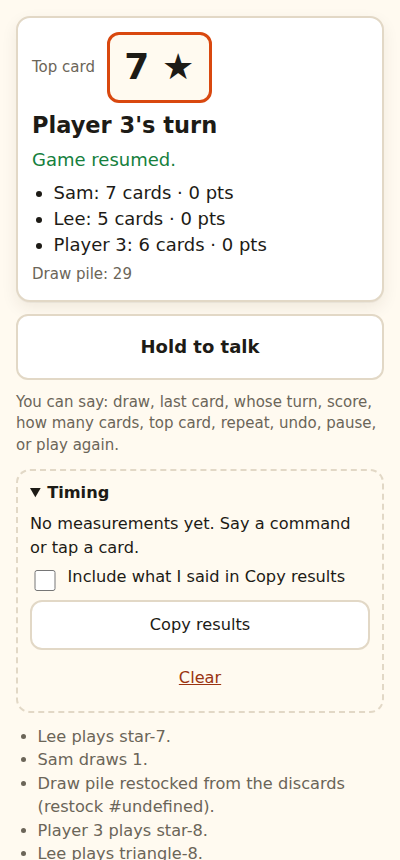
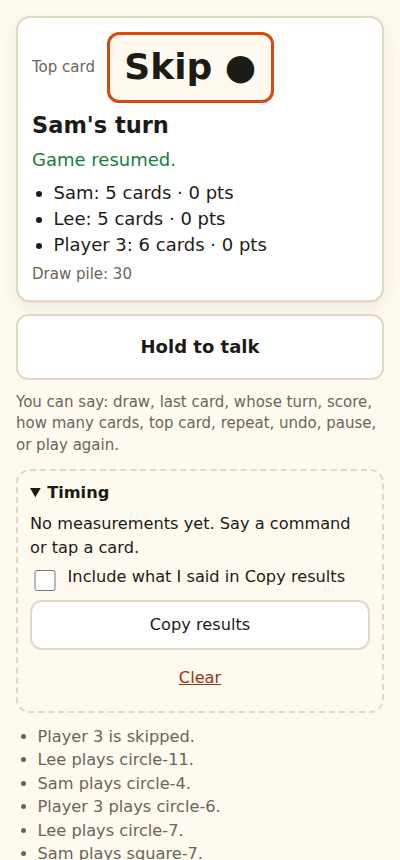
Catch up when the table restocks the draw pile on its own; fix the deck size mid-game; clearer add-card message
Claude-Session: https://claude.ai/code/session_014dNE1wrudJ3Rjp2wqt9CUz

diff --git a/src/games/matching.ts b/src/games/matching.ts
@@ -2,7 +2,7 @@ import type { Action, ActionResult, Cartridge, Card, GameState, GameStatus, Play
 import { cardById, mulberry32, shuffle } from '../engine/deck';
 import { ALL_CARD_IDS } from '../engine/deckConfig';
 import { advance, createTurn, currentPlayer, reverse, skip } from '../engine/turns';
-import { deckCards, deckHas, defaultTable, fullyKnown, handCount, inDiscard, knownOwner, knownPoints, outOfDeckMessage, physicalDraw, scanInto, syncCounts, unknownOf } from '../engine/table';
+import { alreadyPlayedMessage, catchUpRestock, deckCards, deckHas, defaultTable, fullyKnown, handCount, inDiscard, knownOwner, knownPoints, outOfDeckMessage, physicalDraw, restock, scanInto, syncCounts, unknownOf } from '../engine/table';
 
 /** Original name (Uno is a Mattel trademark); placeholder until the brief's naming step. */
 export const MATCHING_NAME = 'Match Up';
@@ -172,6 +172,8 @@ const ALLOWED: Record<Action['type'], GameStatus[]> = {
   finishScoring: ['scoring'],
   adjust: ['setup', 'playing'],
   addCard: ['setup', 'scanning', 'playing'],
+  restock: ['scanning', 'playing'],
+  deckSize: ['setup', 'scanning', 'playing'],
 };
 
 function reduce(prev: GameState, action: Action, rng: Rng): ActionResult {
@@ -188,6 +190,8 @@ function reduce(prev: GameState, action: Action, rng: Rng): ActionResult {
     case 'confirm': return doConfirm(s, action.ok);
     case 'score': return doScore(prev, s, action.cardId);
     case 'finishScoring': return doFinishScoring(s);
+    case 'deckSize': return doDeckSize(prev, s, action.count);
+    case 'restock': return doRestock(prev, s);
     case 'addCard': return doAddCard(prev, s, action.cardId);
     case 'adjust': return doAdjust(prev, s, action.player, action.delta);
     case 'callLast': return doCallLast(prev, s, action.player);
@@ -198,6 +202,33 @@ function reduce(prev: GameState, action: Action, rng: Rng): ActionResult {
 
 // ---- physical table: setup, scanning, confirming, scoring ------------------
 
+/**
+ * Real cards: the deck in the app doesn't match the cards on the table (extra cards were added, or the count was
+ * wrong). Cards the app has seen (in hands or on the pile) always stay; the rest are trimmed or topped up to `count`.
+ */
+function doDeckSize(prev: GameState, s: GameState, count: number): ActionResult {
+  if (!isPhysical(s)) return fail(prev, 'The app deals from the cards in play, so this only applies to real cards.');
+  if (!Number.isInteger(count) || count < 1 || count > ALL_CARD_IDS.length) return fail(prev, `Enter a whole number from 1 to ${ALL_CARD_IDS.length}.`);
+  const seen = new Set<string>(s.public.discard.map((c) => c.id));
+  for (const p of s.players) for (const c of s.private[p.id]?.hand ?? []) seen.add(c.id);
+  const unseenInHands = s.players.reduce((n, p) => n + unknownOf(s.private[p.id]), 0);
+  const needed = seen.size + unseenInHands;
+  if (count < needed) return fail(prev, `At least ${needed} cards are already in hands or on the pile, so the deck can't be smaller than that.`);
+  const rest = ALL_CARD_IDS.filter((id) => !seen.has(id));
+  const room = count - seen.size;
+  const keep = new Set([...new Set([...s.table.deck.filter((id) => !seen.has(id)), ...rest])].slice(0, room)); // keep what was in play first, then top up
+  s.table.deck = ALL_CARD_IDS.filter((id) => seen.has(id) || keep.has(id));
+  syncCounts(s);
+  logLine(s, `Cards in play corrected to ${s.table.deck.length}.`);
+  return { ok: true, state: s, message: `Now ${s.table.deck.length} cards in play. Draw pile: ${s.public.drawPileCount}.` };
+}
+
+function doRestock(prev: GameState, s: GameState): ActionResult {
+  if (!isPhysical(s)) return fail(prev, 'The app restocks the draw pile by itself.');
+  if (!restock(s)) return fail(prev, 'There is nothing in the discard pile to shuffle back in.');
+  return { ok: true, state: s, message: `Draw pile restocked: ${s.public.drawPileCount} cards.` };
+}
+
 function doAddCard(prev: GameState, s: GameState, cardId: string): ActionResult {
   const card = cardById(cardId);
   if (!card) return fail(prev, `${cardId} isn't a card in this game.`);
@@ -205,7 +236,7 @@ function doAddCard(prev: GameState, s: GameState, cardId: string): ActionResult 
   s.table.deck = ALL_CARD_IDS.filter((id) => id === cardId || s.table.deck.includes(id));
   syncCounts(s);
   logLine(s, `${card.id} added to the deck (${s.table.deck.length} cards in play).`);
-  return { ok: true, state: s, message: `${card.id} added to the deck.` };
+  return { ok: true, state: s, message: `${card.id} added: now ${s.table.deck.length} cards in play. If that is not how many you really have, fix it under "Fix a card count or the deck size".` };
 }
 
 function doFlip(prev: GameState, s: GameState, cardId: string): ActionResult {
@@ -412,7 +443,8 @@ function doPlay(prev: GameState, s: GameState, player: PlayerId, cardId: string,
 
   const known = hp.hand.find((c) => c.id === cardId);
   if (!known) {
-    if (inDiscard(s, cardId)) return fail(prev, `${cardId} is already on the pile.`);
+    catchUpRestock(s, cardId); // played before, shuffled back in by the table, now in play again
+    if (inDiscard(s, cardId)) return fail(prev, alreadyPlayedMessage(s, cardId));
     const owner = knownOwner(s, cardId);
     if (owner) return fail(prev, `That's ${name(s, owner)}'s card, not ${who}'s.`);
     // Not identified: fine if this player still holds cards the app hasn't identified (it learns this one now).

diff --git a/tests/table.test.ts b/tests/table.test.ts
@@ -614,3 +614,78 @@ describe('physical table: winning +2 and play-on mode', () => {
     expect(handCount(s, 'p0')).toBe(1);
   });
 });
+
+describe('the table restocks before telling the app', () => {
+  const rigged = (knowledge: 'counts' | 'scanned') => {
+    const deck = deckForCount(10);
+    let s = startGame(matchingGame, mk(2), rng(), table(deck, knowledge, 'physical', 4));
+    s = act(s, { type: 'flip', cardId: deck[2]! }).state;
+    s.public.discard = [card('circle-1'), card('circle-2'), card('triangle-1'), card(deck[2]!)]; // three were played earlier
+    s.private.p0!.unknown = 3; s.private.p1!.unknown = 4; // and one more card each left the hands
+    s.public.drawPileCount = 0; syncCounts(s);
+    return s;
+  };
+  it('with the pile empty, playing a card that was already on the pile means the discards were shuffled back in: catch up, do not refuse', () => {
+    const s = rigged('counts');
+    expect(s.public.drawPileCount).toBe(0);
+    const top = s.public.discard.at(-1)!;
+    const r = act(s, { type: 'play', player: currentPlayer(s.public.turn), cardId: 'circle-1' });
+    expect(r.state.public.reshuffles).toBe(1);
+    expect(r.state.public.discard.length).toBe(r.ok ? 2 : 1);
+    expect(r.state.public.discard[0]!.id).toBe(r.ok ? top.id : top.id);
+  });
+  it('with cards still in the pile it is refused, with a hint and a way to restock by hand', () => {
+    const s = rigged('counts');
+    s.private.p0!.unknown = 1; syncCounts(s); // the app now thinks the pile has cards
+    expect(s.public.drawPileCount).toBeGreaterThan(0);
+    const r = act(s, { type: 'play', player: currentPlayer(s.public.turn), cardId: 'circle-1' });
+    expect(r.ok).toBe(false);
+    expect(r.message).toMatch(/shuffled the discards/);
+    expect(r.state.public.reshuffles ?? 0).toBe(0);
+  });
+  it('scanning a drawn card that is in the old discards catches up too', () => {
+    let s = rigged('scanned');
+    s.public.status = 'scanning'; s.public.scanning = { player: 'p0', remaining: 1 };
+    expect(s.public.drawPileCount).toBe(0);
+    s = act(s, { type: 'scan', player: 'p0', cardId: 'circle-1' }).state;
+    expect(s.public.reshuffles).toBe(1);
+    expect(s.private.p0!.hand.map((c) => c.id)).toContain('circle-1');
+    expect(s.public.discard).toHaveLength(1);
+    invariant(s);
+  });
+  it('the top card itself is still refused, and a manual restock works once there is something to shuffle', () => {
+    const s = rigged('counts');
+    const refused = act(s, { type: 'play', player: currentPlayer(s.public.turn), cardId: s.public.discard.at(-1)!.id });
+    expect(refused.ok).toBe(false);
+    expect(refused.message).toMatch(/already on the pile/);
+    const r = act(s, { type: 'restock' });
+    expect(r.ok).toBe(true);
+    expect(r.state.public.discard).toHaveLength(1);
+    expect(r.state.public.reshuffles).toBe(1);
+    expect(act(r.state, { type: 'restock' }).ok).toBe(false); // nothing left to shuffle
+    invariant(r.state);
+  });
+});
+
+describe('correcting the deck size mid-game (real cards)', () => {
+  it('trims extra cards that were added by mistake, never the ones the app has seen', () => {
+    const deck = deckForCount(10);
+    let s = act(startGame(matchingGame, mk(2), rng(), table(deck, 'counts', 'physical', 4)), { type: 'flip', cardId: deck[2]! }).state;
+    for (const id of ['star-13', 'star-12', 'star-11', 'square-13']) s = act(s, { type: 'addCard', cardId: id }).state;
+    expect(s.table.deck).toHaveLength(14);
+    const r = act(s, { type: 'deckSize', count: 10 });
+    expect(r.ok).toBe(true);
+    expect(r.state.table.deck).toHaveLength(10);
+    expect(r.state.table.deck).toContain(deck[2]!); // the flipped card stays
+    expect(pile(r.state)).toBe(1);
+    invariant(r.state);
+  });
+  it('refuses a deck smaller than what is already in hands and on the pile, or nonsense', () => {
+    const deck = deckForCount(10);
+    const s = act(startGame(matchingGame, mk(2), rng(), table(deck, 'counts', 'physical', 4)), { type: 'flip', cardId: deck[2]! }).state;
+    expect(act(s, { type: 'deckSize', count: 5 }).ok).toBe(false);
+    expect(act(s, { type: 'deckSize', count: 0 }).ok).toBe(false);
+    expect(act(s, { type: 'deckSize', count: 99 }).ok).toBe(false);
+    expect(act(s, { type: 'deckSize', count: 12 }).state.table.deck).toHaveLength(12); // topping up is allowed
+  });
+});

diff --git a/src/ui/screens.ts b/src/ui/screens.ts
@@ -146,6 +146,7 @@ function gameScreen(game: Cartridge, start: GameStartOptions): void {
   const settings = loadSettings();
   let flash = resume ? 'Game resumed.' : '';
   let flashOk = true;
+  let offerRestock = false; // a replayed card usually means the table shuffled the discards back in
   let leftOut: string | null = null; // a tapped card this game was set up without: offer to add it back
   const fx = createFeedback({ sound: settings.sound, style: game.feedbackStyle });
   const nameOf = (id: string) => players.find((p) => p.id === id)?.name ?? id;
@@ -228,6 +229,7 @@ function gameScreen(game: Cartridge, start: GameStartOptions): void {
     flashOk = r.ok;
     const tapped = 'cardId' in a ? a.cardId : null;
     leftOut = !r.ok && tapped && cardById(tapped) && !state.table.deck.includes(tapped) ? tapped : null;
+    offerRestock = !r.ok && /already on the pile/.test(r.message) && state.table.mode === 'physical' && state.public.discard.length > 1;
     fx(r.ok ? 'success' : 'error');
     if (r.ok) {
       if (simTable) {
@@ -475,8 +477,12 @@ function gameScreen(game: Cartridge, start: GameStartOptions): void {
       pub.status === 'playing' && h('button', { onclick: () => act({ type: 'callLast', player: pub.lastCardPending ?? cur }) }, 'Call last card (L)'),
       history.length > 0 && h('button', { id: 'undo', onclick: () => undo() }, 'Undo last move'),
       physical && h('details', { class: 'corrections', open: correctionsOpen, ontoggle: (e: Event) => (correctionsOpen = (e.target as HTMLDetailsElement).open) },
-        h('summary', {}, 'Fix a card count'),
+        h('summary', {}, 'Fix a card count or the deck size'),
         h('small', {}, 'Forgot to say "draw", or miscounted? Correct it here.'),
+        h('label', {}, `Cards really in play (app has ${state.table.deck.length}) `,
+          h('input', { id: 'decksize', type: 'number', min: 1, max: 52, value: state.table.deck.length, style: 'width:5rem',
+            onchange: (e: Event) => { const v = Math.round(Number((e.target as HTMLInputElement).value)); if (Number.isFinite(v)) act({ type: 'deckSize', count: v }); } })),
+        pub.status === 'playing' && pub.discard.length > 1 && h('button', { id: 'restock-now', onclick: () => act({ type: 'restock' }) }, 'I shuffled the discards into a new draw pile'),
         h('ul', {}, players.map((p) =>
           h('li', {}, `${p.name}: ${handCount(state, p.id)} `,
             h('button', { 'aria-label': `One fewer card for ${p.name}`, onclick: () => act({ type: 'adjust', player: p.id, delta: -1 }) }, '−'),
@@ -507,10 +513,12 @@ function gameScreen(game: Cartridge, start: GameStartOptions): void {
         h('h2', {}, heading, pub.status === 'playing' && pub.pendingDraw ? ` — play a +2 or draw ${pub.pendingDraw}` : ''),
         pub.lastCardPending && h('p', { class: 'warn' }, `${nameOf(pub.lastCardPending)} is on one card — call it (L)!`),
         h('p', { class: flashOk ? 'ok' : 'err', role: 'status' }, flash || ' '),
+        offerRestock && h('button', { id: 'restock-offer', onclick: () => act({ type: 'restock' }) }, 'I shuffled the discards into a new draw pile'),
         leftOut && h('button', { id: 'add-card', onclick: () => { const id = leftOut as string; act({ type: 'addCard', cardId: id }); } }, `Add ${leftOut} to the deck`),
         h('ul', { class: 'scores' }, players.map((p) => { const place = (pub.placings ?? []).indexOf(p.id) + 1; return h('li', {}, `${p.name}: ${place ? `out (${['1st', '2nd', '3rd'][place - 1] ?? `${place}th`})` : `${pub.handCounts[p.id]} cards`} · ${pub.scores[p.id]} pts${pub.loser === p.id ? ' · last holding cards' : ''}`); })),
         h('small', {}, `Draw pile: ${pub.drawPileCount}${physical ? ' (counted from your taps)' : ''}${pub.reshuffles ? ` · restocked ${pub.reshuffles}×` : ''}`),
-        restockDue(state) && h('p', { id: 'restock', class: 'warn', role: 'status' }, RESTOCK_TEXT),
+        restockDue(state) && h('p', { id: 'restock-note', class: 'warn', role: 'status' }, RESTOCK_TEXT,
+          h('button', { id: 'restock', onclick: () => act({ type: 'restock' }) }, 'Done: I restocked it')),
         pub.status === 'finished' && tallyList(),
         caption && h('p', { class: 'caption', 'aria-live': 'polite' }, `🎙 ${caption}`),
         notice && h('small', { class: 'warn' }, notice),

diff --git a/src/engine/table.ts b/src/engine/table.ts
@@ -90,11 +90,37 @@ export function physicalDraw(s: GameState, player: PlayerId, n: number): DrawRes
   return { drawn, reshuffled, note };
 }
 
+export const alreadyPlayedMessage = (s: GameState, id: string): string =>
+  `${id} is already on the pile.${s.table.mode === 'physical' && s.public.discard.length > 1 ? ' If you shuffled the discards back in, tap "I shuffled the discards".' : ''}`;
+
+/** Real cards: the discard pile (minus its top card) has been shuffled back in as the draw pile. Returns false if there was nothing to shuffle. */
+export function restock(s: GameState): boolean {
+  if (s.public.discard.length <= 1) return false;
+  s.public.discard = [s.public.discard[s.public.discard.length - 1] as Card];
+  s.public.reshuffles = (s.public.reshuffles ?? 0) + 1;
+  syncCounts(s);
+  s.public.log.push(`Draw pile restocked from the discards (restock #${s.public.reshuffles}).`);
+  return true;
+}
+
+/**
+ * A card that was played earlier turns up again (played or drawn) while the app thinks the draw pile is empty. That can
+ * only mean the table already shuffled the discards back in without telling the app: catch up instead of refusing.
+ * (With cards still in the pile it is more likely a double tap, so the card is refused with a hint to restock by hand.)
+ */
+export function catchUpRestock(s: GameState, cardId: string): boolean {
+  if (s.table.mode !== 'physical' || !inDiscard(s, cardId) || s.public.drawPileCount > 0) return false;
+  const top = s.public.discard[s.public.discard.length - 1];
+  if (top?.id === cardId) return false; // the card on top really is still on the pile
+  return restock(s);
+}
+
 /** Identify a card in a player's hand (turn one of their unidentified cards into a known one). Returns an error or null. */
 export function scanInto(s: GameState, player: PlayerId, cardId: string, nameOf: (id: PlayerId) => string): string | null {
   const card = cardById(cardId);
   if (!card || !deckHas(s, cardId)) return outOfDeckMessage(s, cardId);
-  if (inDiscard(s, cardId)) return `${card.id} is already on the pile.`;
+  catchUpRestock(s, cardId);
+  if (inDiscard(s, cardId)) return alreadyPlayedMessage(s, card.id);
   const owner = knownOwner(s, cardId);
   if (owner) return owner === player ? `${card.id} is already scanned.` : `${card.id} is in ${nameOf(owner)}'s hand.`;
   const p = s.private[player] as PrivateState;

diff --git a/src/engine/types.ts b/src/engine/types.ts
@@ -107,6 +107,8 @@ export type Action =
   | { type: 'score'; cardId: string } // a leftover card, counted toward the winner's score
   | { type: 'finishScoring' }
   | { type: 'adjust'; player: PlayerId; delta: number } // correct a player's card count
+  | { type: 'deckSize'; count: number } // real cards: correct how many cards are really in play
+  | { type: 'restock' } // real cards: the table shuffled the discard pile (keeping the top card) into a new draw pile
   | { type: 'addCard'; cardId: string }; // put a card that was left out back into this game's deck
 
 export type ActionResult =

diff --git a/README.md b/README.md
@@ -156,6 +156,10 @@ Likely fixes, picked once the numbers show the biggest stage: act on interim res
 
 Newest first. Add an entry with every push.
 
+### 2026-10-05 (restock catch-up, deck size fix)
+- **Likely cause of "already on the pile" + "18 cards in play":** a real 10-card deck is only the cards you actually hold, but the app picks its own 10 (the lowest numbers) unless you choose them. Tapping a card the app didn't expect offered *Add to the deck*; each add grew the deck (10 -> 18), which put phantom cards in the app's draw pile, so it never noticed the pile was empty and kept the old discards, refusing cards you had shuffled back in.
+- **Fixes (real cards):** (1) when the app thinks the draw pile is empty and a previously played card turns up again, it now concludes the table restocked and catches up instead of refusing; (2) with cards still in the pile it refuses with a hint and a button, *I shuffled the discards into a new draw pile*, which is also in the empty-pile banner and under the corrections panel; (3) the corrections panel has **Cards really in play**: set the true number and the app trims or tops up the deck (cards it has already seen always stay); (4) *Add to the deck* now says the new total and where to fix it. Best practice for a small deck: in Setup use *Choose the exact cards* to pick the cards you really have.
+
 ### 2026-10-05 (scoring review, play-on mode)
 - **Scoring:** reviewed against the rules. Fixed: Skip, Reverse and +2 now score **20** each (were 10); numbers stay face value. A winning **+2** now makes the next player draw two before the points are counted (app-dealt: at once; real cards: when the table confirms the win). A Reverse with only two players left now correctly hands the turn back (it used the seat count, not who is still in).
 - **Play on (last one holding cards loses):** new optional switch in Setup for 3+ players (off by default; remembered). When on, a player who goes out leaves the turn order and is placed 1st, 2nd, ...; the others keep playing (a +2 played to go out stays owed and can be stacked). When one player is left they lose and the round ends: the **first player out wins** and scores that last hand (real cards: tap its unidentified cards as usual). The screen shows who is out and who was left holding cards. With 2 players the switch does nothing. Game-night tally still counts the first-out winner. Simulated whole games (counts and scanned, 3 to 6 players) always end with a named loser and counts matching real cards.
